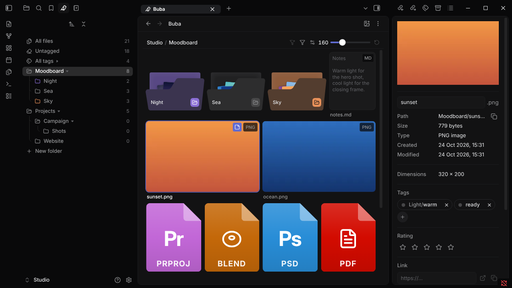
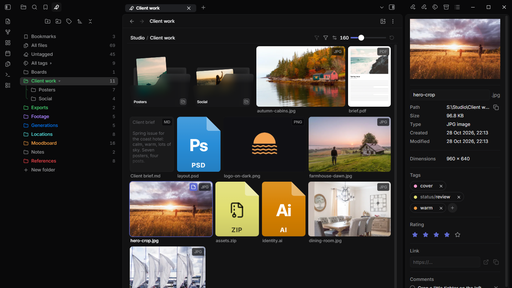
README: new screenshots with Buba 1.2.0, tree arrow text, phone and tablet (#2)
* docs(readme): screenshots for theme 1.1.3

* README: tree arrow shows the state, the icon opens; phone and tablet; new screenshots

Claude-Session: https://claude.ai/code/session_01P56EbuXXzajg4B85uWZxmC

---------

diff --git a/README.md b/README.md
@@ -9,7 +9,12 @@ A calm dark theme for Obsidian, made to go with the [Buba](https://github.com/Op
 - **Inter** for the interface and for notes: the copy that ships with Obsidian, so the theme stays small and loads nothing from the internet.
 - **Made for Buba.** Folder and file tiles sit calmly on the dark panel, tags are round pills, the file panel reads like a property list. The theme works without Buba too.
 - **Core views and popular plugins.** Canvas controls, graph, Bases, properties, callouts, tables, search and link previews share the same look, and so do Excalidraw, Tasks, Omnisearch, Notebook Navigator, TaskNotes, Editing Toolbar, Advanced Canvas and Git.
+- **Phone and tablet.** Menus, the command palette, suggestions and the bottom bar are frosted glass, menu groups are cards, and text fields are tall enough for a finger.
 - Desktop, phone and tablet. Dark mode only: in light mode Obsidian's own look stays.
+
+![Folder tiles of the Buba plugin in the Buba theme](docs/folders.png)
+
+![Buba on a phone in the Buba theme](docs/phone.png)
 
 ## Install
 
@@ -17,7 +22,7 @@ In Obsidian open **Settings → Appearance → Themes → Manage**, find **Buba*
 
 ## Buba tree
 
-With Buba 1.1.0 or later, the Buba tree has no arrow column on the left: a small arrow follows the folder or tag group name, as in Linear's sidebar, and a click or tap on it opens or closes the folder; the closed or open folder icon also shows the state. Tree lines follow Buba's own setting (**Settings → Buba → Tree → Lines**: off, grey or in the folder color) and look like Linear's sidebar: each line bends into its row with a short slant, and the path to the open folder is drawn brighter, in the color of each folder it passes. With the [Style Settings](https://github.com/mgmeyers/obsidian-style-settings) plugin, under **Buba theme**, you can switch to rounded corners and to thick 2 px lines.
+With Buba 1.1.0 or later, the Buba tree has no arrow column on the left: a small arrow follows the folder or tag group name, as in Linear's sidebar, and shows whether it is open, like the closed or open folder icon. A click or tap on the icon opens or closes the folder, a double click on the name too. Tree lines follow Buba's own setting (**Settings → Buba → Tree → Lines**: off, grey or in the folder color) and look like Linear's sidebar: each line bends into its row with a short slant, and the path to the open folder is drawn brighter, in the color of each folder it passes. With the [Style Settings](https://github.com/mgmeyers/obsidian-style-settings) plugin, under **Buba theme**, you can switch to rounded corners and to thick 2 px lines.
 
 ## Excalidraw
 
